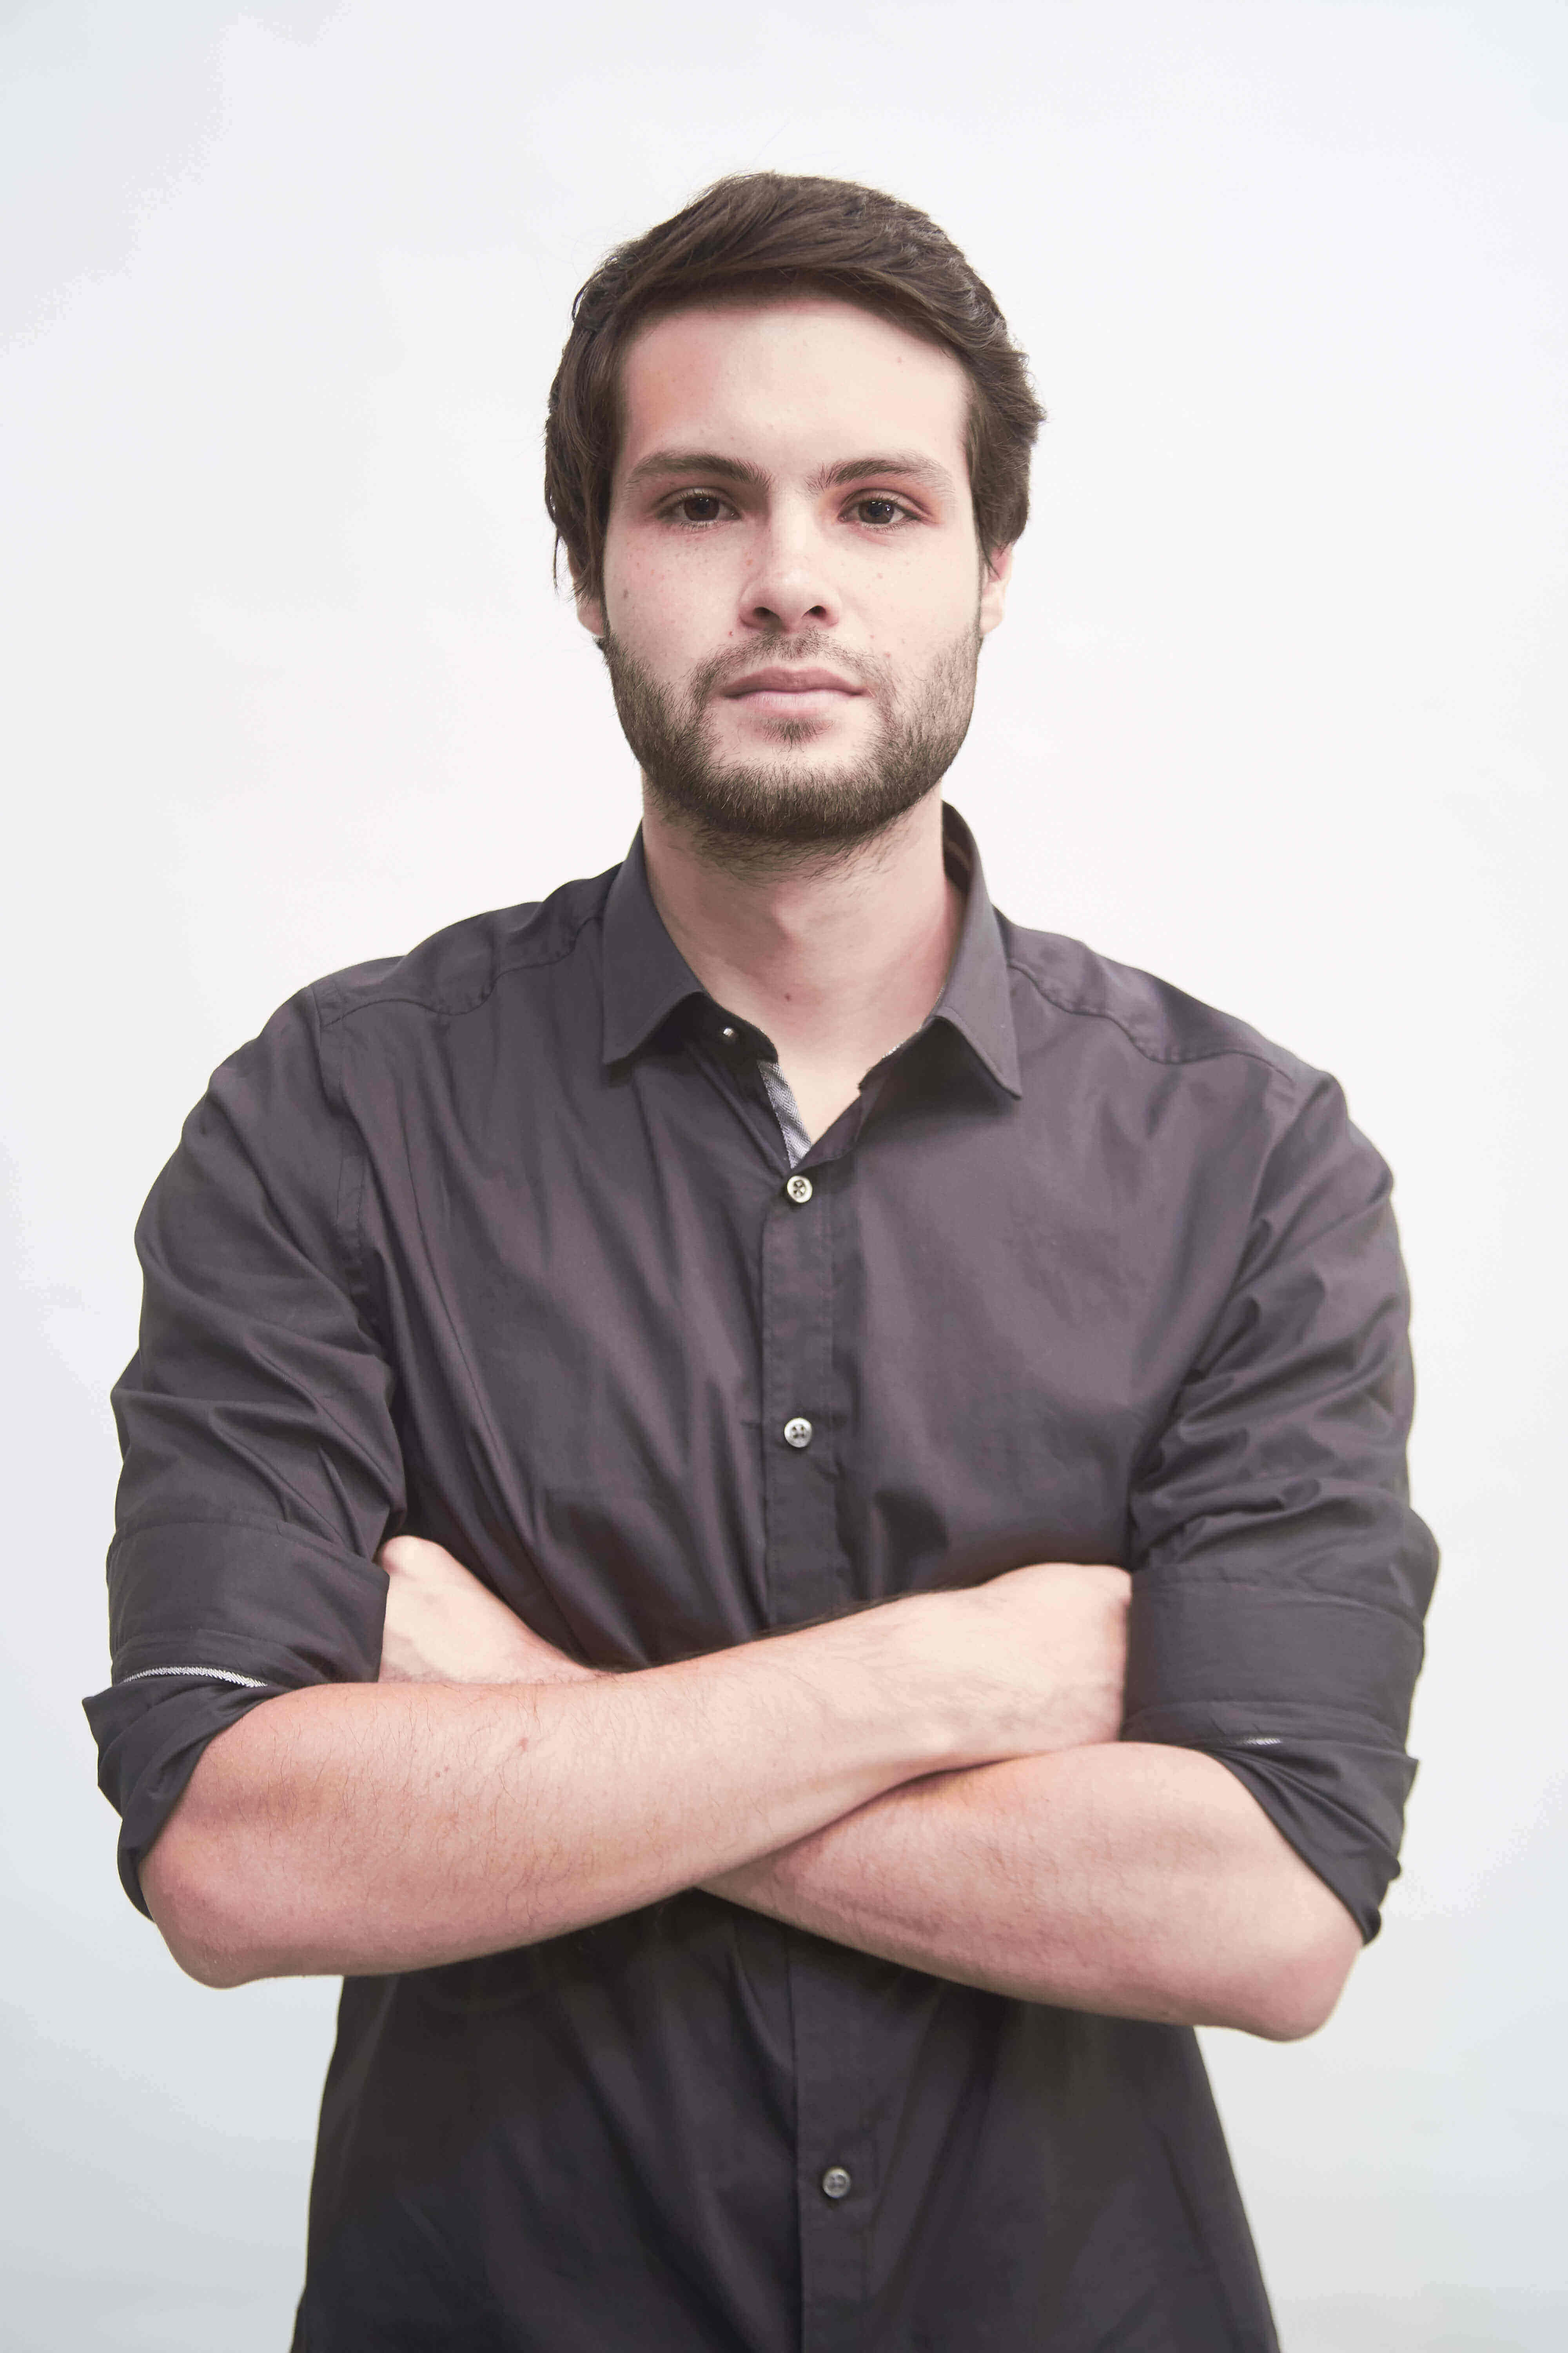
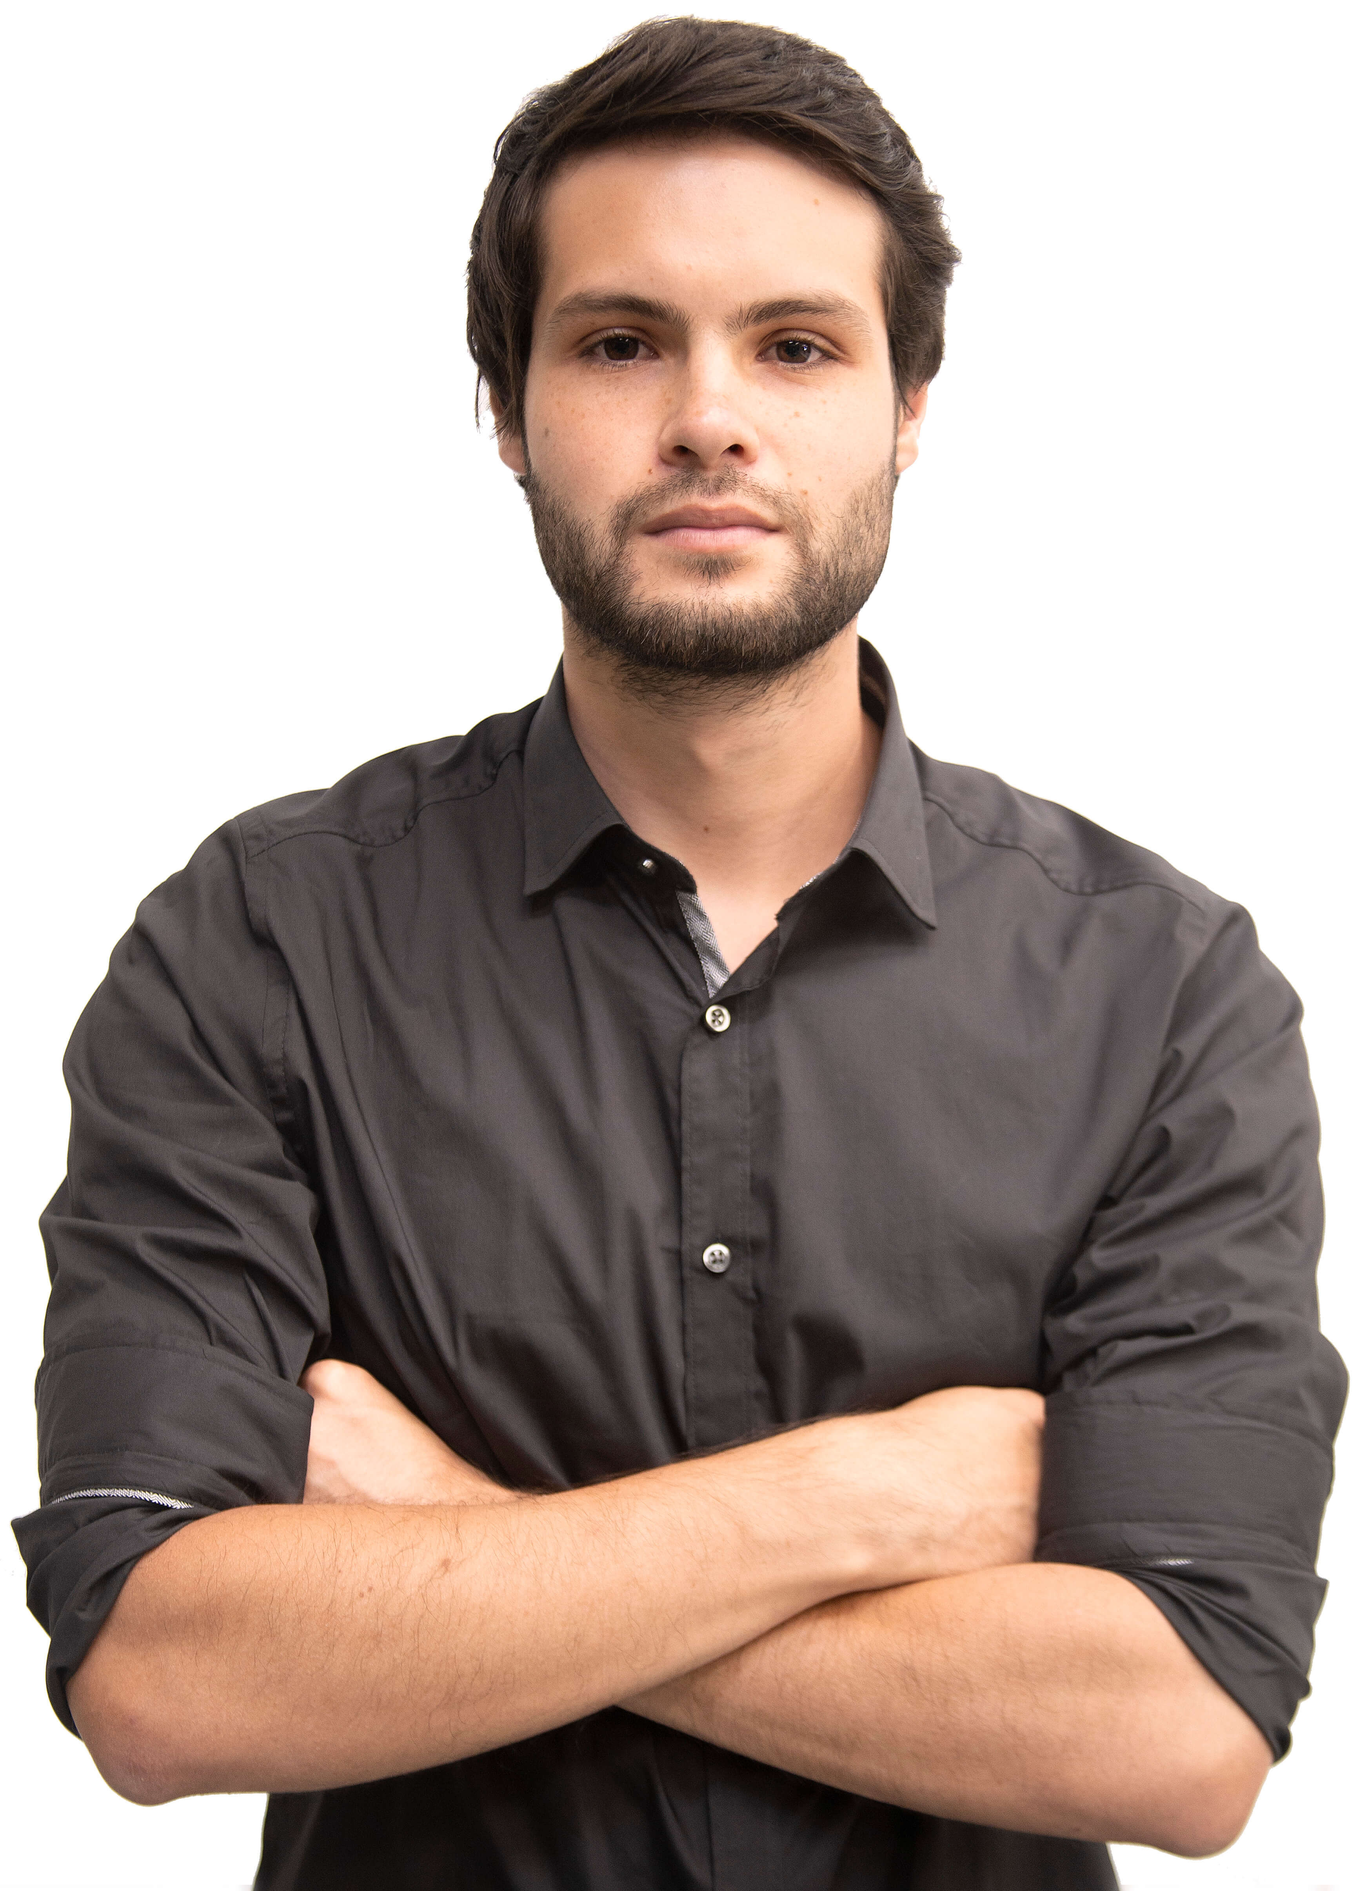
version 3.7

diff --git a/css/global.css b/css/global.css
@@ -207,24 +207,14 @@ i {
 }
 @media only screen and (max-width: 800px) {
   .c-block-1 {
-    background-image: url("../images/foto-movil.jpg");
-    background-position-x: 0;
+    background: #fff;
     min-height: 400px;
-  }
-}
-@media only screen and (max-width: 375px) {
-  .c-block-1 {
-    background-position-x: -20px;
-  }
-}
-@media only screen and (max-width: 330px) {
-  .c-block-1 {
-    background-position-x: -50px;
   }
 }
 .c-block-1__cont {
   margin: 0 0 0 14%;
   width: 30%;
+  z-index: 1;
 }
 @media only screen and (max-width: 1024px) {
   .c-block-1__cont {
@@ -278,6 +268,34 @@ i {
 @media only screen and (max-width: 375px) {
   .c-block-1__title {
     font-size: 3.2em;
+  }
+}
+.c-block-1__img {
+  display: none;
+  position: absolute;
+  top: 0;
+  left: 0;
+  right: 0;
+  bottom: 0;
+  margin: auto;
+  width: 400px;
+  height: 100%;
+}
+@media only screen and (max-width: 800px) {
+  .c-block-1__img {
+    display: block;
+    width: 600px;
+  }
+}
+@media only screen and (max-width: 600px) {
+  .c-block-1__img {
+    width: 400px;
+  }
+}
+@media only screen and (max-width: 414px) {
+  .c-block-1__img {
+    width: 100%;
+    height: 90%;
   }
 }
 .c-block-1__scroll {

diff --git a/index.html b/index.html
@@ -31,11 +31,10 @@
       </nav>
     </div>
     <div class="o-container-1"><i class="o-button-3 fas fa-bars">    </i>
-      <div class="c-block-1" id="home">               
+      <div class="c-block-1" id="home"><img class="c-block-1__img" src="./images/foto-movil.jpg" alt=""/>
         <div class="c-block-1__scroll"> <a href="#services"><i class="fas fa-angle-down scrollSign"></i></a></div>
         <div class="c-block-1__cont">                   
           <div>
-            <h3 class="o-name-1">Sebastian Ramirez</h3>
             <div class="c-block-1__title">HOLA! ME LLAMO SEBASTIÁN</div>
             <p>Soy desarrollador Web Colombiano, apasionado por las nuevas tecnologías de desarrollo, dispuesto a convertir tus ideas y proyectos en realidad.</p>
           </div>
